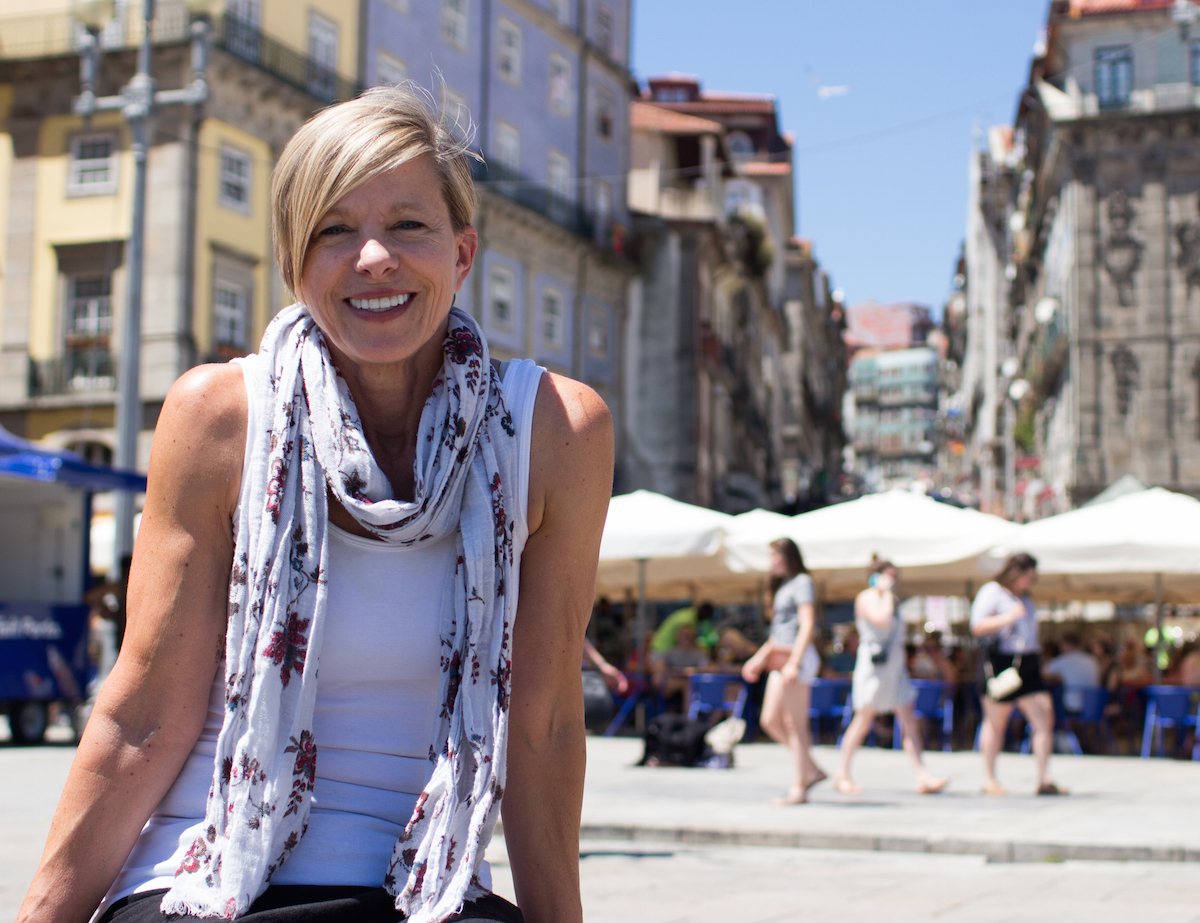
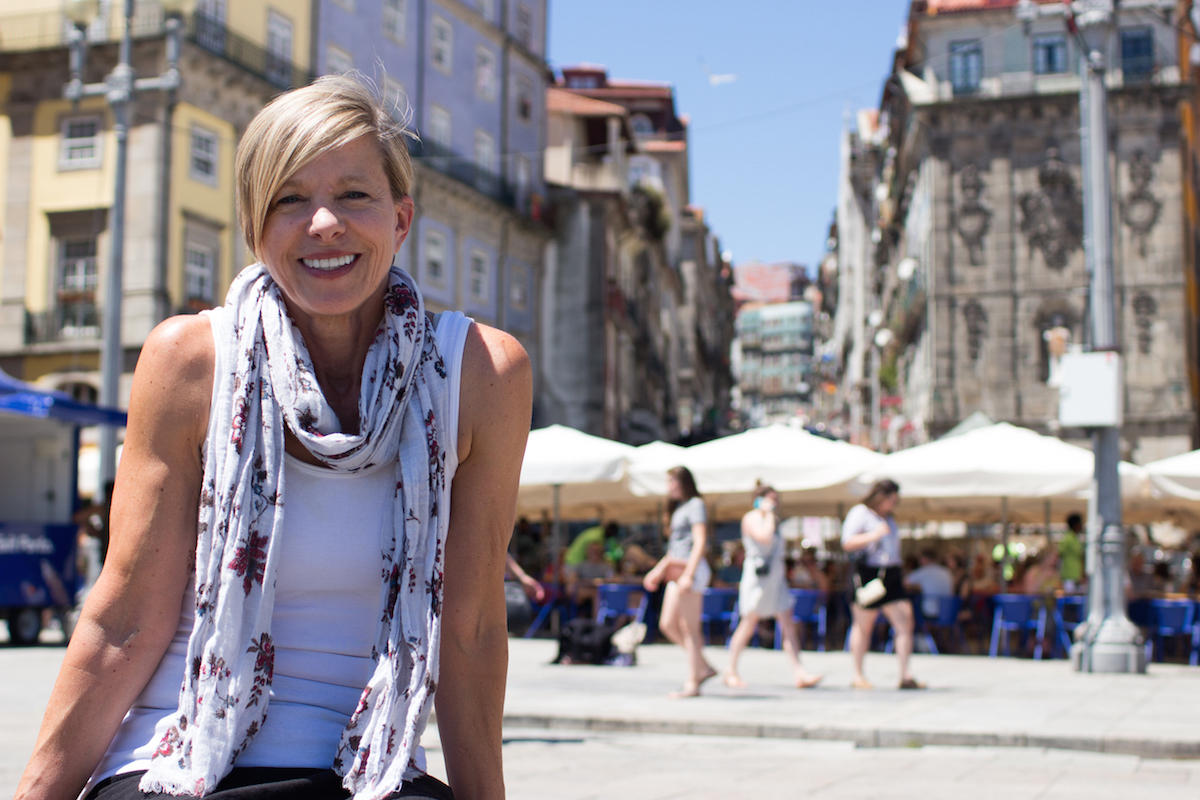
Added uncropped picture of lori

diff --git a/docs/index.html b/docs/index.html
@@ -1,8 +1,7 @@
 <!doctype html>
 <html class="no-js" lang="">
     <head>
-        <script   src="https://code.jquery.com/jquery-2.2.4.min.js"   integrity="sha256-BbhdlvQf/xTY9gja0Dq3HiwQF8LaCRTXxZKRutelT44="   crossorigin="anonymous"></script>
-        <script src="image-loading.js" ></script>
+      <script   src="https://code.jquery.com/jquery-2.2.4.min.js"   integrity="sha256-BbhdlvQf/xTY9gja0Dq3HiwQF8LaCRTXxZKRutelT44="   crossorigin="anonymous"></script>
         <meta charset="utf-8">
         <meta http-equiv="x-ua-compatible" content="ie=edge">
         <title>Paradise in Porto</title>
@@ -209,7 +208,7 @@
                         </div>
                         <h2>Brad Stachurski</h2>
                         <p>Fort Collins, CO, USA</p>
-                        <p> Free spirit, Mediation and yoga guru, Ultra marathoner on the pursuit of adventure, Living a summer of yes</p>
+                        <p> Free spirit, Meditation and yoga guru, Ultra marathoner on the pursuit of adventure, Living a summer of yes</p>
 
                         <div class="img-container">
                           <div class="loader">
